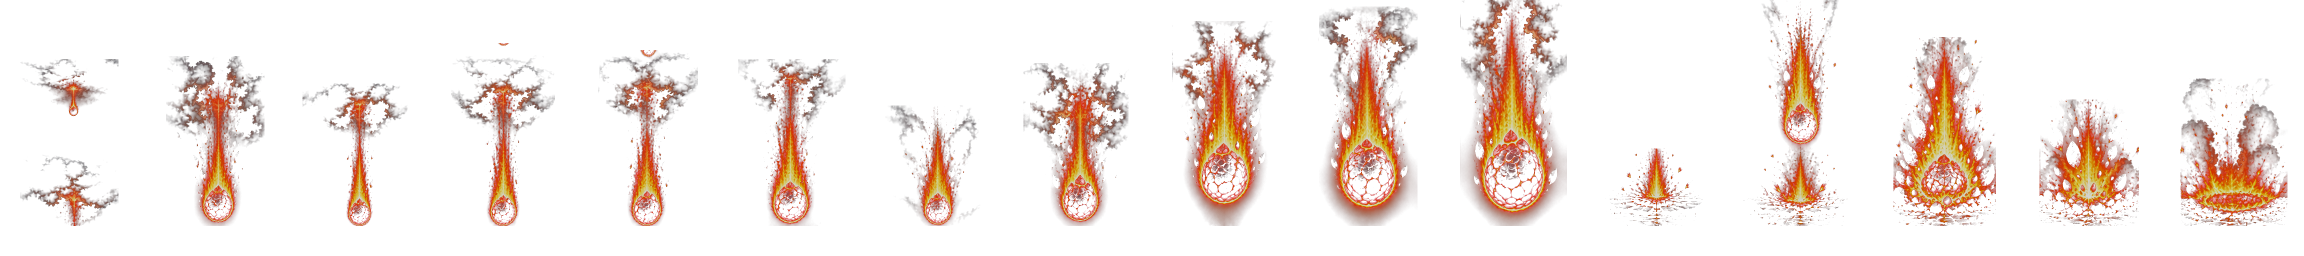
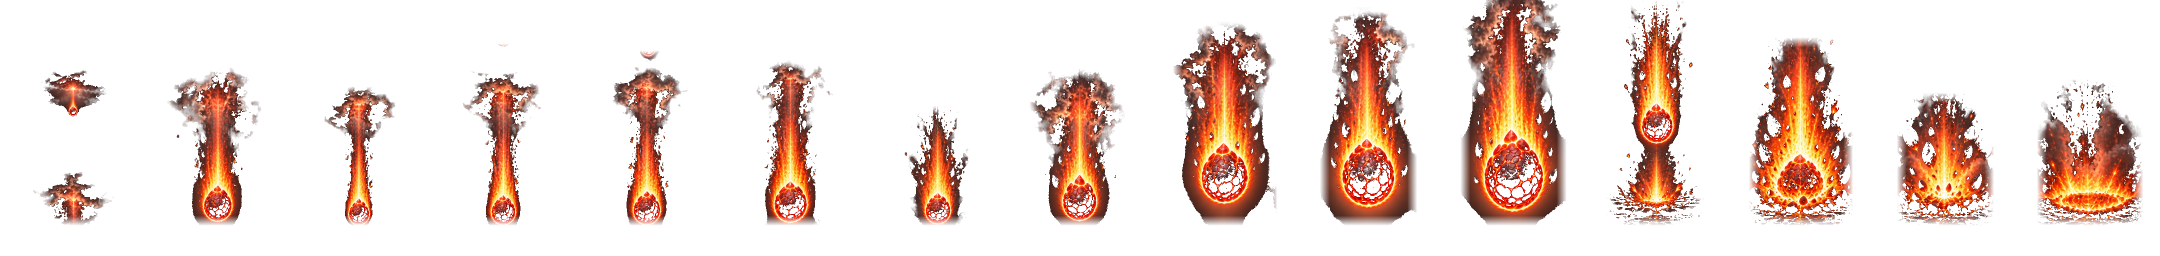
☄ Meteoro: opaco, maior e com as nuvens — soma aditiva era a causa
Testado em tela pelo dono: "ele está muito transparente, faça ele ser maior e
mais forte o impacto, aparecendo as nuvens que mandei também".

🔴 DUAS DAS TRÊS QUEIXAS SÃO O MESMO DEFEITO, e é um que este projeto já tinha
cometido: SOMA ADITIVA SÓ SABE CLAREAR. A pedra é escura e a fumaça é cinza;
somadas à grama quase não mudam nada, e sobra só o contorno aceso. Foi o que a
nuvem do relâmpago fez em 12/09 — repeti no dia seguinte, na folha ao lado.

A correção precisou de três lugares, nenhum suficiente sozinho:

1. `mistura: 'normal'` no cliente — segunda folha do jogo com ela.
2. A chave do cortador virou SATURAÇÃO. Por brilho, a pedra sai com alfa baixo e
   a fumaça cai na mesma faixa do fundo. Medidas: fundo 0,09 · fumaça 0,35 ·
   fogo 0,79 · pedra 0,90. O núcleo branco do impacto, quase sem cor, entra por
   um corte de brilho alto (200) que só ele alcança.
3. Alfa abaixo de 9 % vira zero. Em soma ninguém via o véu de fundo; em mistura
   normal ele virou um retângulo de névoa em volta do estouro — o mesmo recorte
   quadrado das nuvens da Descarga.

⚠ E o recorte passou a precisar de DOIS critérios: saturação para desenhar,
brilho para medir. Com a fumaça no perfil as colunas deixam de separar — ela se
espalha e faz ponte; medido, cinco colunas viraram três.

🔴 A CÉLULA ENCOLHEU E NINGUÉM AVISOU. `ESCALA_IMPACTO` valia 2,1 para células
de 192 px; a folha nova tem 144, e os mesmos 2,1 davam 189 px de estouro contra
[…]

diff --git a/client/src/main.ts b/client/src/main.ts
@@ -2568,7 +2568,12 @@ async function startGame(playerName: string, charClass: PlayerClass, gender: Gen
      * 🌠 **O avulso sacode mais que os da Chuva, pela mesma razão do relâmpago:**
      * lá são dezoito por conjuração e o tremor se emenda; aqui cai UM.
      */
-    meteor_solo: { px: 13, ms: 260 },
+    /*
+     * ⚠ **22 px, e eram 13** — *"mais forte o impacto"* (dono, 13/09, depois de
+     * ver em tela). O tremor é o que diz PESO; o clarão diz onde. Treze pixels
+     * num meteoro de nove tiles de largura lê como um tropeço.
+     */
+    meteor_solo: { px: 22, ms: 380 },
     /*
      * ❄ A bola de neve mal sacode: são dez em 4,5 s, e o peso dela é o de uma
      * bola de neve. Tremor de meteoro aqui deixaria a tela em convulsão por
@@ -2795,7 +2800,7 @@ async function startGame(playerName: string, charClass: PlayerClass, gender: Gen
      *
      * ⚠ **Nove dos 25 desenhos são NUVEM DE FAGULHA solta**, enfeite do rastro
      * que o gerador pôs fora do quadro a que pertence. O cortador os descarta
-     * pela massa, e sobram 16: onze de queda e cinco de estouro.
+     * pela massa, e sobram 15: onze de queda e quatro de estouro.
      *
      * ⚠ **`queda: 430` são treze tiles de altura.** Perto o bastante para a
      * pedra nascer dentro da janela do jogador, longe o bastante para ler como
@@ -2813,9 +2818,23 @@ async function startGame(playerName: string, charClass: PlayerClass, gender: Gen
      * número.
      */
     {
-      magia: 'meteor_solo', arquivo: 'meteoro_queda', bolts: 1, quadros: 16,
-      fracaoQueda: 11 / 16, duracaoEstouro: 700, ancoraY: 0.88,
+      magia: 'meteor_solo', arquivo: 'meteoro_queda', bolts: 1, quadros: 15,
+      fracaoQueda: 11 / 15, duracaoEstouro: 560, ancoraY: 0.88,
       trajetoria: { queda: 430, cresce: [0.42, 1] },
+      /*
+       * 🔴 **MISTURA NORMAL, e é a segunda folha do jogo com ela.**
+       *
+       * O dono viu em tela: *"ele está muito transparente… aparecendo as nuvens
+       * que mandei também"*. As duas queixas são a MESMA: soma aditiva só sabe
+       * CLAREAR. A pedra é escura e a fumaça é cinza — somadas à grama, quase não
+       * mudam nada, e o que sobra é o contorno aceso. Era o mesmo defeito da
+       * nuvem do relâmpago, em 12/09.
+       *
+       * ⚠ O preço é o recorte ficar exposto: em soma, um alfa mal medido só
+       * clareia de leve; em mistura normal, ele TAPA o mundo. É por isso que a
+       * chave do cortador mudou junto — ver `meteoro-grade2fx.mjs`.
+       */
+      mistura: 'normal' as const,
     },
     /*
      * ❄ A BOLA DE NEVE da Nevasca. A folha do dono é uma coluna de gelo que
@@ -3212,10 +3231,19 @@ async function startGame(playerName: string, charClass: PlayerClass, gender: Gen
     /*
      * 🌠 **O Meteoro avulso estoura MAIOR que os da Chuva**, e a conta é a área:
      * ele pega um bloco 7×7 (224 px) contra o respingo 5×5 (160 px) de cada
-     * rocha da chuva. 2,1 dá 252 px de estouro — um pouco mais que o quadrado de
-     * dano, que é a margem de drama que o meteoro já tinha em 2,0.
+     * rocha da chuva.
+     *
+     * 🔴 **3,4, e era 2,1 — a CÉLULA ENCOLHEU junto com a folha nova.** O número
+     * antigo valia para células de 192 px de largura; a folha vertical de 13/09
+     * tem 144, e os mesmos 2,1 passaram a dar 189 px de estouro contra os 252 de
+     * antes. Menor que o próprio quadrado de dano — foi metade da queixa do dono
+     * (*"faça ele ser maior"*), e a outra metade era a transparência.
+     *
+     * ⚠ É por isso que o número mora aqui e não na folha: ele é uma razão entre
+     * a arte e o TILE, e toda folha nova o desatualiza em silêncio. 3,4 dá 306 px
+     * — uma vez e meia o quadrado de dano, a mesma margem de drama da Chuva.
      */
-    meteor_solo: 2.1,
+    meteor_solo: 3.4,
     /*
      * ❄ A célula da folha da Nevasca tem 160 px de largura para 3 tiles (96 px)
      * de área de dano. 0,62 põe a coluna de gelo no tamanho da cratera dela.
@@ -3502,7 +3530,9 @@ async function startGame(playerName: string, charClass: PlayerClass, gender: Gen
   const naFaixa = ([a, b]: [number, number]): number => a + Math.random() * (b - a);
 
   /** Quantos cristais cada impacto solta, e em que raio eles se espalham. */
-  const PARTICULAS: Record<string, { cristais: number; espalha: number }> = {
+  const PARTICULAS: Record<
+    string, { cristais: number; espalha: number; cor?: number }
+  > = {
     /*
      * ❄ **DEZESSEIS POR IMPACTO, e são dez impactos: ~160 na tempestade.**
      *
@@ -3532,6 +3562,19 @@ async function startGame(playerName: string, charClass: PlayerClass, gender: Gen
      * some.
      */
     lightning_fall: { cristais: 22, espalha: 64 },
+    /*
+     * ☄ **E o Meteoro avulso também não tinha entrada — o mesmo silêncio.**
+     * *"Mais forte o impacto"* (dono, 13/09): o tremor e o clarão já disparavam,
+     * mas nada VOAVA. É a diferença entre o chão tremer e a pedra estourar.
+     *
+     * ⚠ **28 num raio de 2,5 tiles**, o maior dos três: o estouro dele tem nove
+     * tiles de largura, e estilhaço espalhado em raio menor que o clarão some
+     * dentro dele — foi a lição do relâmpago.
+     *
+     * ⚠ **Tinta de BRASA**, e não a branco-azulada dos outros dois. A folha de
+     * cristal é a mesma; o que muda a leitura é o tom.
+     */
+    meteor_solo: { cristais: 28, espalha: 80, cor: 0xffb066 },
   };
 
   /**
@@ -3563,10 +3606,12 @@ async function startGame(playerName: string, charClass: PlayerClass, gender: Gen
       p.giro = (Math.random() - 0.5) * 0.02;
       p.node.rotation = Math.random() * Math.PI * 2;
       /*
-       * ⚠ **Tinta quase branca.** A folha já vem colorida, e tingir de
-       * azul-médio uma arte que já é azul escurece duas vezes — some no chão.
+       * ⚠ **Tinta quase branca, por padrão.** A folha já vem colorida, e tingir
+       * de azul-médio uma arte que já é azul escurece duas vezes — some no chão.
+       * Quem precisa de outro tom declara em `PARTICULAS.cor`: é o caso da brasa
+       * do Meteoro, que de branco-azulado leria como gelo.
        */
-      p.node.tint = 0xdff2ff;
+      p.node.tint = cfg.cor ?? 0xdff2ff;
       /*
        * 🔴 **0,7–1,2, e o caminho até aqui vale registrar.** Quando o cristal
        * sumiu em tela, subi a escala para 2,0–3,2 achando que era tamanho. Não

diff --git a/client/meteoro-preview.html b/client/meteoro-preview.html
@@ -8,6 +8,9 @@
   quadros, onze de queda e cinco de estouro, todos ancorados pelo RODAPÉ do
   desenho (a pedra no voo, o chão no impacto).
 
+  ⚠ A mistura aqui é NORMAL, como no cliente desde 13/09: aditiva apagava a
+  pedra e a fumaça, e a bancada mentiria a favor.
+
   A bancada confere as duas coisas que decidem se funciona:
     1. a pedra e a cratera caem NO MESMO ponto — a linha do chão;
     2. a pedra chega lá no fim do mergulho, que é quando o dano do servidor cai.
@@ -36,9 +39,9 @@
   // Da ficha: `quedaMs` (o mergulho, e quando o dano chega) e a área 7×7.
   const MERGULHO = 1100, RAIO = 3;
   // Do cliente: `trajetoria`, `fracaoQueda`, `duracaoEstouro` e `ancoraY`.
-  const QUEDA = 430, CRESCE = [0.42, 1], FRACAO = 11 / 16;
-  const ESTOURO = 700, ANCORA_Y = 0.88;
-  const ESCALA_QUEDA = 0.625, ESCALA_IMPACTO = 2.1;
+  const QUEDA = 430, CRESCE = [0.42, 1], FRACAO = 11 / 15;
+  const ESTOURO = 560, ANCORA_Y = 0.88;
+  const ESCALA_QUEDA = 0.625, ESCALA_IMPACTO = 3.4;
   const ESCALA = ESCALA_QUEDA * ESCALA_IMPACTO;
   const CICLO = MERGULHO + ESTOURO + 600;
 
@@ -83,7 +86,6 @@
   function desenha(t) {
     cenario();
     const ciclo = t % CICLO;
-    g.globalCompositeOperation = 'lighter';
     if (ciclo < MERGULHO) {
       /*
        * O MERGULHO: a pedra nasce `QUEDA` px acima do alvo e desce até ele,
@@ -94,7 +96,6 @@
       const k = Math.min(VOO - 1, Math.floor(frac * VOO));
       const s = ESCALA * (CRESCE[0] + (CRESCE[1] - CRESCE[0]) * frac);
       const [w, h] = poe(k, CX, CHAO - QUEDA * (1 - frac), s);
-      g.globalCompositeOperation = 'source-over';
       document.getElementById('leg').textContent =
         `MERGULHO ${Math.round(ciclo)}/${MERGULHO} ms · quadro ${k + 1} de ${VOO}`
         + ` · ${Math.round(w)}×${Math.round(h)} px`
@@ -103,13 +104,11 @@
       const dt = ciclo - MERGULHO;
       const k = VOO + Math.min(N - VOO - 1, Math.floor((dt / ESTOURO) * (N - VOO)));
       const [w] = poe(k, CX, CHAO, ESCALA);
-      g.globalCompositeOperation = 'source-over';
       document.getElementById('leg').textContent =
         `ESTOURO ${Math.round(dt)}/${ESTOURO} ms · quadro ${k + 1} de ${N}`
         + ` · ${Math.round(w)} px de largura (${(w / TS).toFixed(1)} tiles)`
         + ` contra ${(RAIO * 2 + 1)} de dano`;
     } else {
-      g.globalCompositeOperation = 'source-over';
       document.getElementById('leg').textContent = 'fim do ciclo';
     }
   }
@@ -123,7 +122,6 @@
     const ag = alvo.getContext('2d');
     ag.fillStyle = '#3f5a34';
     ag.fillRect(0, 0, alvo.width, alvo.height);
-    ag.globalCompositeOperation = 'lighter';
     for (let k = 0; k < N; k++) {
       ag.drawImage(img, k * LW, 0, LW, LH, (k % COL) * w, Math.floor(k / COL) * h, w, h);
     }

diff --git a/docs/HISTORICO.md b/docs/HISTORICO.md
@@ -56,7 +56,7 @@ mesma família de erro do dia: **medir um passo antes de onde o defeito aparece*
 
 ### ☄ O que o cliente ficou fazendo
 
-Sobraram **16 quadros**: onze de queda e cinco de estouro. Como os quadros foram
+Sobraram **15 quadros**: onze de queda e quatro de estouro. Como os quadros foram
 reenquadrados, a descida saiu do desenho — quem move o meteoro voltou a ser o cliente, com
 uma `trajetoria` agora **vertical** (`queda: 430`, treze tiles) e sem giro nenhum.
 
@@ -64,6 +64,45 @@ uma `trajetoria` agora **vertical** (`queda: 430`, treze tiles) e sem giro nenhu
 exatamente o fim do mergulho: os dois lados usam o mesmo número. Na versão anterior era
 preciso casar `duracaoEstouro` com a fração em que o impacto aparecia na tira — um número
 copiado que ninguém conseguia conferir.
+
+### 🔴 Testado em tela: "muito transparente, e sem as nuvens" — uma causa só
+
+O dono jogou e trouxe três queixas: *"ele está muito transparente, faça ele ser maior e
+mais forte o impacto, aparecendo as nuvens que mandei também"*. Duas delas são o MESMO
+defeito, e é um que este projeto já tinha cometido: **soma aditiva só sabe clarear.** A
+pedra é escura e a fumaça é cinza; somadas à grama, quase não mudam nada, e sobra só o
+contorno aceso. Foi o que a nuvem do relâmpago fez em 12/09, e eu repeti no dia seguinte.
+
+A correção veio em três lugares, e nenhum deles sozinho resolveria:
+
+1. **`mistura: 'normal'`** no cliente — a segunda folha do jogo com ela.
+2. **A chave do cortador virou SATURAÇÃO**, porque por brilho a pedra sai com alfa baixo e
+   a fumaça fica na mesma faixa do fundo. Medidas: fundo 0,09 · fumaça 0,35 · fogo 0,79 ·
+   pedra 0,90. O núcleo branco do impacto, que é quase sem cor, entra por um corte de
+   brilho alto (200) que só ele alcança.
+3. **Alfa abaixo de 9 % vira zero.** Em soma ninguém via o véu de fundo; em mistura normal
+   ele virou um retângulo de névoa em volta do estouro.
+
+⚠ **E o recorte passou a precisar de DOIS critérios**: saturação para desenhar, brilho
+para medir. Com a fumaça no perfil, as colunas deixam de separar — ela se espalha para os
+lados e faz ponte; medido, cinco colunas viraram três.
+
+### 💥 O tamanho e o peso do impacto
+
+🔴 **A CÉLULA ENCOLHEU e ninguém avisou.** `ESCALA_IMPACTO` valia 2,1 para células de
+192 px; a folha nova tem 144, e os mesmos 2,1 passaram a dar 189 px de estouro contra os
+252 de antes — menor que o próprio quadrado de dano. **É uma razão entre a arte e o TILE, e
+toda folha nova a desatualiza em silêncio.** Agora são 3,4, que dá 306 px.
+
+⚠ **O Meteoro não tinha entrada em `PARTICULAS`** — o mesmo silêncio do relâmpago em
+12/09: o tremor e o clarão disparavam, mas nada VOAVA. Entraram 28 estilhaços num raio de
+2,5 tiles, com tinta de brasa (a tabela ganhou um campo `cor`; a branco-azulada dos outros
+dois leria como gelo). O tremor foi de 13 px para 22.
+
+💥 **E o primeiro quadro do estouro saiu da tira.** O gerador desenha um lampejo no chão
+enquanto a pedra ainda está chegando — 1985 de massa contra 11 253 do quadro seguinte.
+Tocado em sequência, ele fazia o efeito ENCOLHER no instante em que devia bater mais forte:
+a pedra de nove tiles sumia e sobrava uma chama de dois.
 
 ---
 
